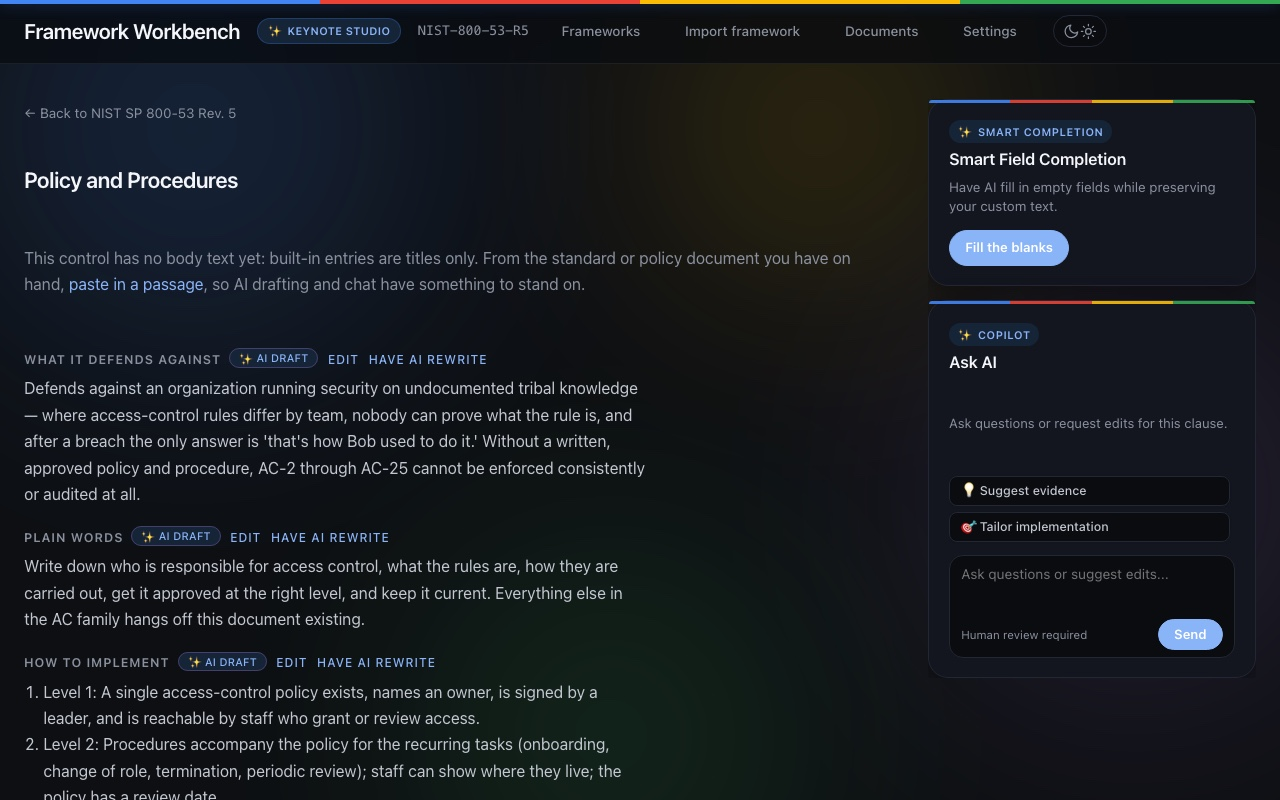
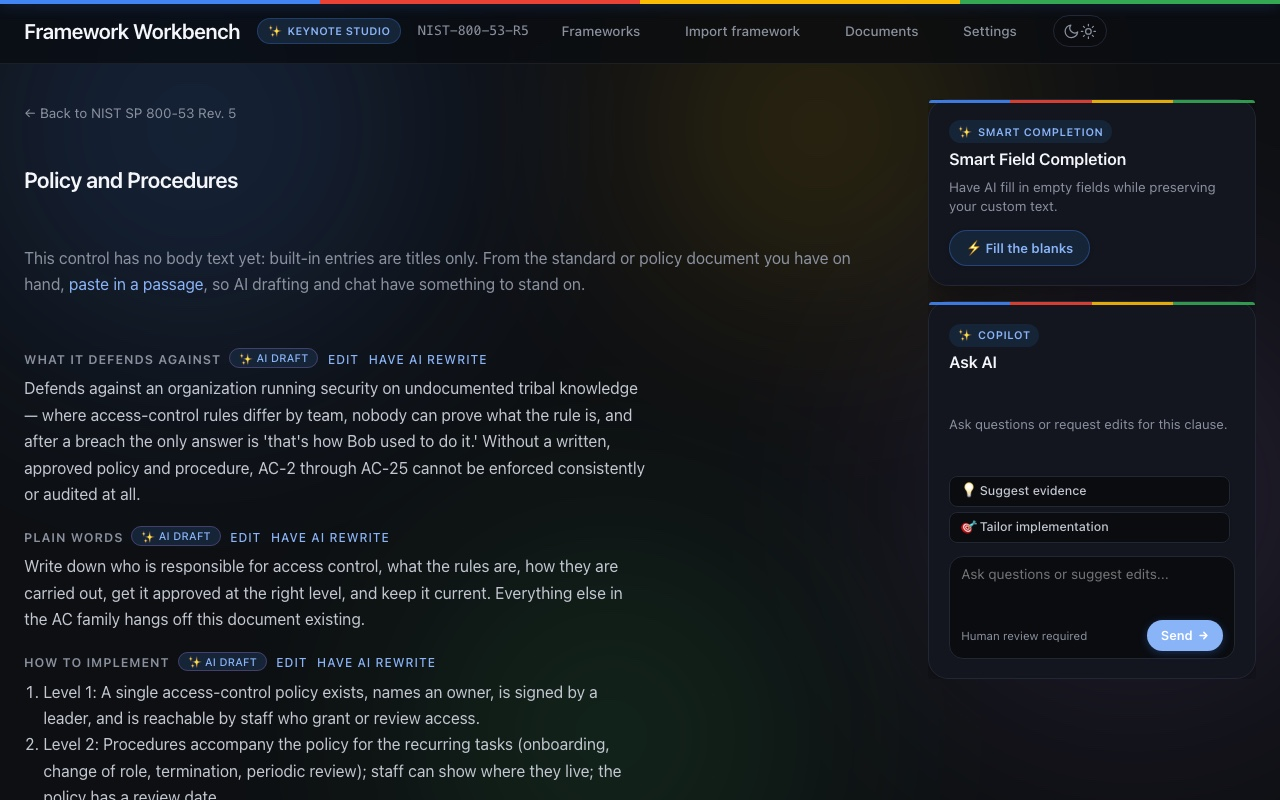
style: modernize Fill the blanks and Send buttons with frosted accents and interactive SVG iconography

diff --git a/src/framework_reader/web/views.py b/src/framework_reader/web/views.py
@@ -1322,7 +1322,7 @@ def _clause_chat(control_id: str, turns: list) -> str:
         '<textarea name="message" rows="2" placeholder="Ask questions or suggest edits..."></textarea>'
         '<div class="composer-foot">'
         '<span class="cost-hint">Human review required</span>'
-        '<button type="submit">Send</button>'
+        '<button type="submit">Send <svg viewBox="0 0 16 16"><path d="M3 8h9M8.5 3.5L13 8l-4.5 4.5"/></svg></button>'
         '</div>'
         '</div>'
         "</form></div>"
@@ -1363,9 +1363,19 @@ _CHAT_CSS = """
   border:0;outline:none;resize:none;height:2.6rem;min-height:2.6rem;line-height:1.4}
 .doing .composer-foot{display:flex;align-items:center;justify-content:space-between;gap:.5rem}
 .doing .cost-hint{font-size:.72rem;color:var(--muted);margin:0;line-height:1;flex:1}
-.doing .chat-composer button{padding:.35rem .95rem;font-size:.82rem;font-weight:600;
-  border-radius:980px;white-space:nowrap;cursor:pointer;flex:none;height:1.9rem;
-  display:inline-flex;align-items:center;justify-content:center}
+.doing .chat-composer button{padding:.32rem .85rem;font-size:.8rem;font-weight:600;
+  border-radius:980px;white-space:nowrap;cursor:pointer;flex:none;height:1.95rem;
+  background:var(--accent);color:#fff;border:0;
+  display:inline-flex;align-items:center;gap:.35rem;
+  box-shadow:0 2px 8px rgba(66,133,244,.3);
+  transition:all .2s cubic-bezier(.2,0,0,1)}
+.doing .chat-composer button:hover{background:#5b95f7;
+  box-shadow:0 4px 14px rgba(66,133,244,.45);transform:translateY(-1px)}
+.doing .chat-composer button:active{transform:scale(.96)}
+.doing .chat-composer button svg{width:11px;height:11px;stroke:currentColor;fill:none;
+  stroke-width:2.2;stroke-linecap:round;stroke-linejoin:round;
+  transition:transform .2s ease}
+.doing .chat-composer button:hover svg{transform:translateX(2px)}
 """
 
 
@@ -1397,7 +1407,7 @@ def _fill_blanks_invite(control_id: str, written: bool) -> str:
         '<h4 class="card-title">Smart Field Completion</h4>'
         '</div>'
         f'<p class="card-desc">Have AI {what} while preserving your custom text.</p>'
-        f'<button type="submit">{button_label}</button>'
+        f'<button type="submit">⚡ {button_label}</button>'
         "</form>"
     )
 
@@ -3158,9 +3168,19 @@ _SPLIT_CSS = """
 .doing .claim .hint{font-size:.76rem;color:var(--muted);background:var(--sunk);
   padding:.4rem .6rem;border-radius:10px;margin:.5rem 0 .85rem;line-height:1.4}
 .doing .claim button{width:auto;display:inline-flex;align-items:center;justify-content:center;
-  gap:.35rem;font-weight:600;padding:.36rem .95rem;font-size:.82rem;border-radius:980px}
-.doing .claim.confirm-card button{background:var(--success);border-color:var(--success)}
-.doing .claim.confirm-card button:hover{box-shadow:0 4px 14px rgba(52,168,83,.35)}
+  gap:.4rem;font-weight:600;padding:.38rem 1rem;font-size:.82rem;border-radius:980px;
+  background:var(--accent-soft);color:var(--accent);
+  border:1px solid rgba(66,133,244,.35);
+  box-shadow:0 1px 4px rgba(0,0,0,.15);
+  cursor:pointer;transition:all .2s cubic-bezier(.2,0,0,1)}
+.doing .claim button:hover{background:var(--accent);color:#fff;
+  border-color:var(--accent);box-shadow:0 4px 14px rgba(66,133,244,.35);
+  transform:translateY(-1px)}
+.doing .claim button:active{transform:scale(.97)}
+.doing .claim.confirm-card button{background:var(--success-soft);color:var(--success);
+  border-color:rgba(52,168,83,.35)}
+.doing .claim.confirm-card button:hover{background:var(--success);color:#fff;
+  border-color:var(--success);box-shadow:0 4px 14px rgba(52,168,83,.35)}
 .doing .chat .thread{overflow-y:auto;max-height:14rem;min-height:2.5rem;padding-right:.3rem;
   scrollbar-width:thin;scrollbar-color:var(--rule) transparent;display:flex;flex-direction:column}
 .doing .chat .thread::-webkit-scrollbar{width:4px}
